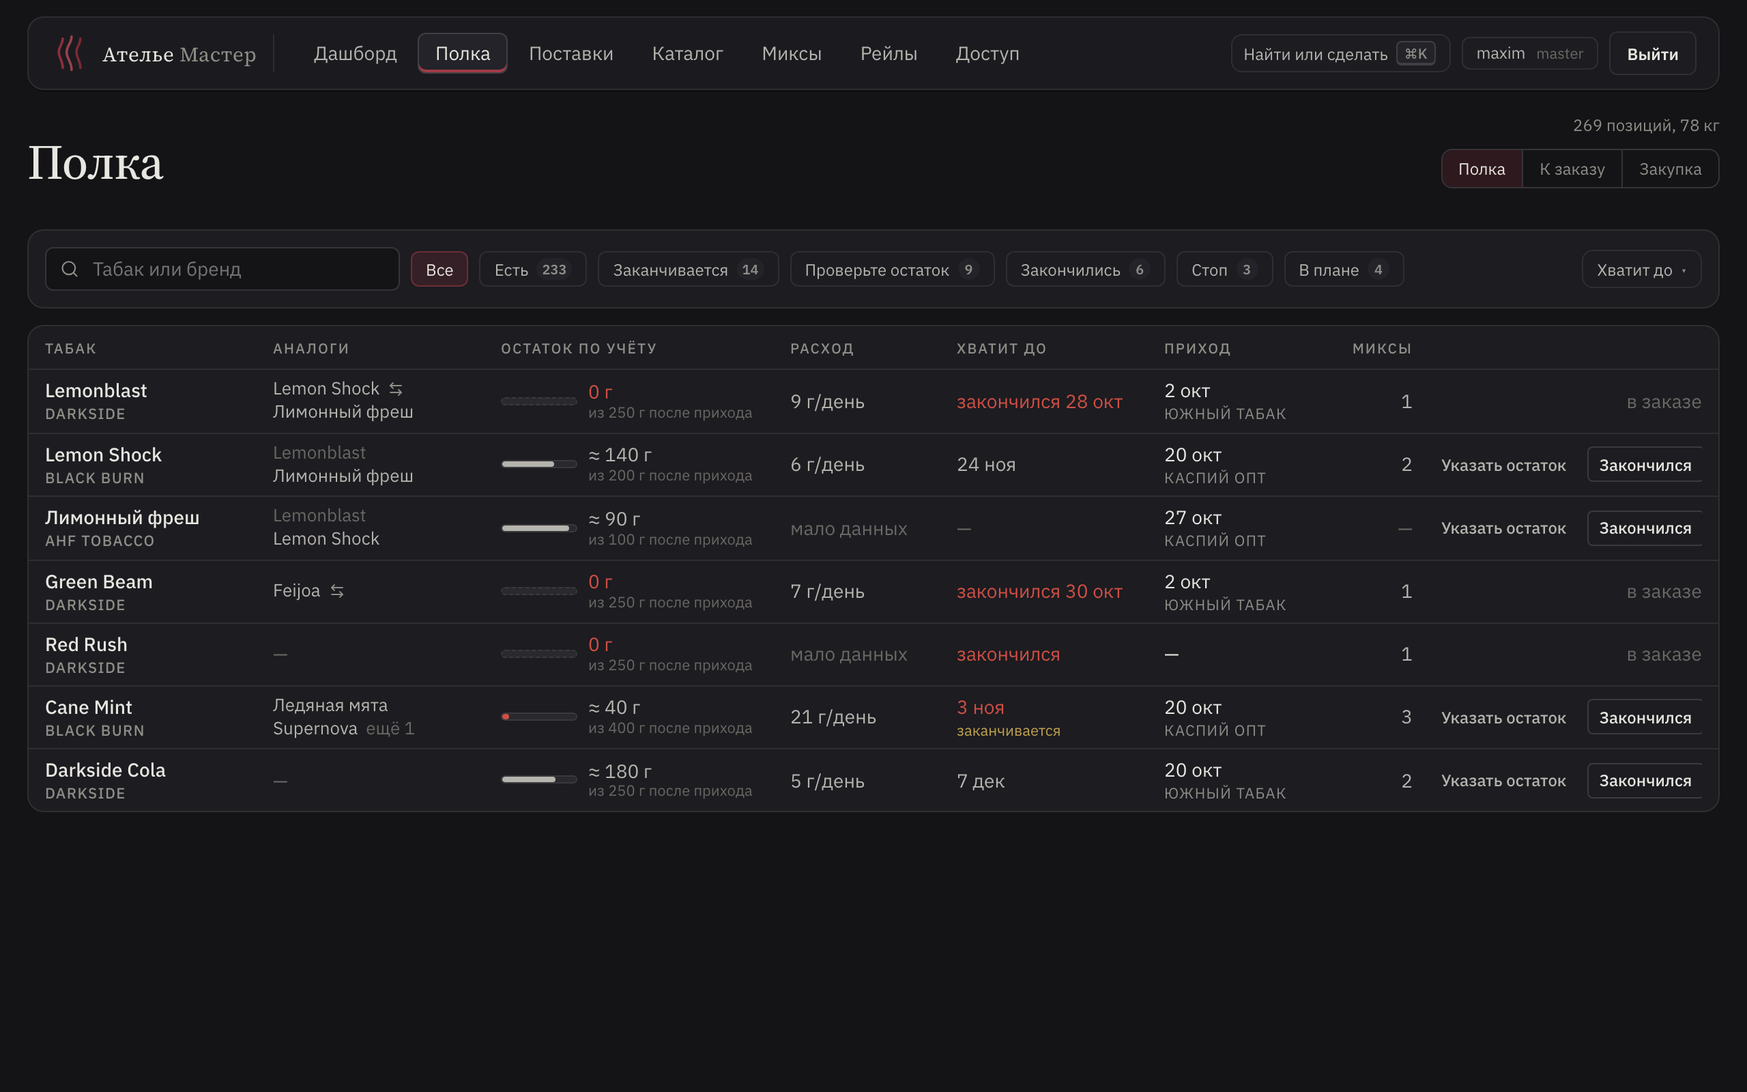
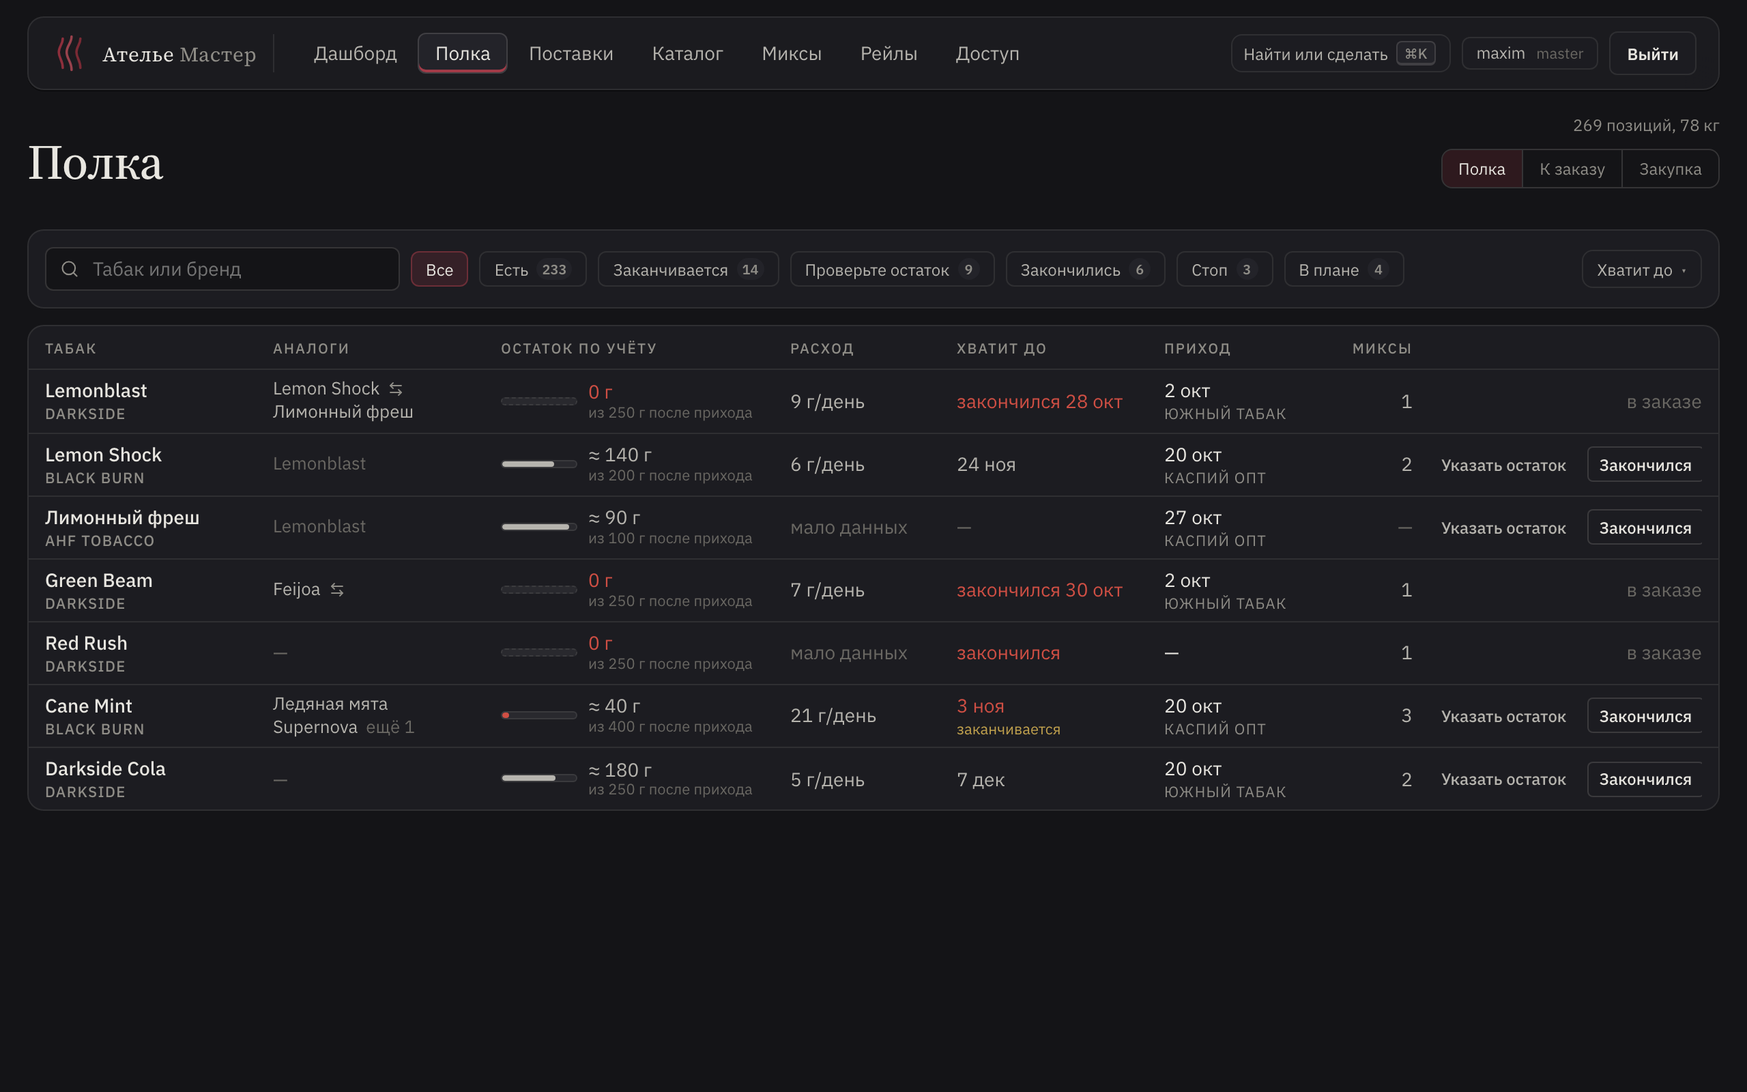
docs(prd): аналоги — свой список у каждого табака вместо групп (#475) (#484)
Владелец 2026-11-01: в общем случае табаки взаимозаменяемы, и один табак
может подменять несколько разных. Группы с запретом на второе членство
этого не позволяли. Связь взаимная, порядок замены у каждого табака свой,
транзитивности нет.

diff --git a/design/design_handoff_tobacco_analogs/board.jsx b/design/design_handoff_tobacco_analogs/board.jsx
@@ -1,6 +1,6 @@
 // Доска мокапа #475: аналоги табаков — микс не блокируется, если недостающий табак закрывает аналог с полки.
 // Миксы — из сверки миксов мастера Nomad с полкой прода (2026-10-31). Состояние полки — как после того,
-// как мастер собрал первые группы аналогов.
+// как мастер задал первые аналоги.
 const DS = window.DesignSystem_1aef33;
 const { AromaCTA, AromaChip, SegmentNav, ProfileGlyph, SignatureBar, MasterTopBar, MasterPageHeader, MasterButton, MasterIconButton, MasterTag, MasterInput, MasterList, MasterSortPill, FilterChip } = DS;
 
@@ -92,7 +92,7 @@ const anMix = (id) => AN_MIXES.find((mix) => mix.id === id);
 // Что гость видит в составе: табак с полки вместо закончившегося.
 const asServed = (mix) => mix.components.map((c) => (c.sub ? { ...c.sub, proportion: c.proportion, substitute: true } : c));
 
-// Карточки полки: группа аналогов в порядке замены и похожие табаки с полки по flavors.
+// Карточки полки: аналоги в порядке замены и похожие табаки с полки по flavors.
 const AN_SHELF = {
   lemonblast: {
     manufacturer: 'Darkside', name: 'Lemonblast', profiles: ['citrus'], left: '0 г', leftNote: 'закончился 28 окт', rate: '9 г/день', rateNote: 'по 4 отметкам за 60 дней',
@@ -219,14 +219,14 @@ function MixesPage({ onMissing }) {
 
 // ── Мастер: экран «Полка» с колонкой «Аналоги» ──
 
-// Аналоги в строке — остальные табаки группы в порядке замены. sub — тот, что сейчас стоит в миксах вместо закончившегося.
+// Аналоги в строке — список этого табака в его порядке замены. sub — тот, что сейчас стоит в миксах вместо закончившегося.
 const AN_SHELF_ROWS = [
   { id: 'lemonblast', manufacturer: 'Darkside', name: 'Lemonblast', left: 0, full: 250, rate: '9 г/день', until: 'закончился 28 окт', status: 'out', arrived: '2 окт', supplier: 'Южный табак', mixes: 1,
     analogs: [{ name: 'Lemon Shock', on: true, sub: true }, { name: 'Лимонный фреш', on: true }] },
   { id: 'lemonshock', manufacturer: 'Black Burn', name: 'Lemon Shock', left: 140, full: 200, rate: '6 г/день', until: '24 ноя', days: 23, status: 'ok', arrived: '20 окт', supplier: 'Каспий Опт', mixes: 2,
-    analogs: [{ name: 'Lemonblast', on: false }, { name: 'Лимонный фреш', on: true }] },
+    analogs: [{ name: 'Lemonblast', on: false }] },
   { id: 'lemonfresh', manufacturer: 'AHF Tobacco', name: 'Лимонный фреш', left: 90, full: 100, rate: 'мало данных', until: '—', status: 'ok', arrived: '27 окт', supplier: 'Каспий Опт', mixes: 0,
-    analogs: [{ name: 'Lemonblast', on: false }, { name: 'Lemon Shock', on: true }] },
+    analogs: [{ name: 'Lemonblast', on: false }] },
   { id: 'greenbeam', manufacturer: 'Darkside', name: 'Green Beam', left: 0, full: 250, rate: '7 г/день', until: 'закончился 30 окт', status: 'out', arrived: '2 окт', supplier: 'Южный табак', mixes: 1,
     analogs: [{ name: 'Feijoa', on: true, sub: true }] },
   { id: 'redrush', manufacturer: 'Darkside', name: 'Red Rush', left: 0, full: 250, rate: 'мало данных', until: 'закончился', status: 'out', arrived: '—', supplier: '', mixes: 1, analogs: [] },
@@ -260,7 +260,7 @@ function ShelfUntil({ row }) {
   );
 }
 
-// Две первые строки группы, остальное — «ещё N». Закончившиеся приглушены, стоящий сейчас в миксах — с иконкой замены.
+// Два первых аналога, остальное — «ещё N». Закончившиеся приглушены, стоящий сейчас в миксах — с иконкой замены.
 function ShelfAnalogs({ row }) {
   if (!row.analogs.length) return <span className="inv-faint">—</span>;
   const head = row.analogs.slice(0, 2);
@@ -596,7 +596,7 @@ function GuestPhone({ view, sheet }) {
 
 const AN_SHOTS = [
   { id: 'mixes', group: 'master', name: 'Миксы', note: 'Новый статус «с заменой»: какой табак стоит вместо какого. У блокированного названо, чего нет, имя табака открывает его карточку. «Ежевичный тархун» блокирован: нет двух табаков, а замена допускается одна.', desk: {} },
-  { id: 'shelf', group: 'master', name: 'Полка', note: 'Новая колонка «Аналоги»: остальные табаки группы в порядке замены. Закончившиеся приглушены. У закончившегося табака иконкой отмечен тот, что сейчас стоит вместо него в миксах. Если аналогов нет, в ячейке прочерк.', desk: { page: 'shelf' } },
+  { id: 'shelf', group: 'master', name: 'Полка', note: 'Новая колонка «Аналоги»: аналоги табака в его порядке замены. Связь взаимная: Lemon Shock аналог Lemonblast, значит, и Lemonblast аналог Lemon Shock. Закончившиеся приглушены. У закончившегося табака иконкой отмечен тот, что сейчас стоит вместо него в миксах. Если аналогов нет, в ячейке прочерк.', desk: { page: 'shelf' } },
   { id: 'shelf-analogs', group: 'master', name: 'Карточка табака: аналоги заданы', note: 'Lemonblast закончился. Порядок в списке и есть порядок замены, стрелками меняется. Ниже похожие табаки с полки и миксы, где табак сейчас подменён.', desk: { card: 'lemonblast', page: 'shelf' } },
   { id: 'shelf-suggest', group: 'master', name: 'Карточка табака: аналогов нет', note: 'Открыта из «Миксов» по ссылке «Нет: Red Rush». Похожие на полке подобраны по flavors, «Сделать аналогом» в одно действие делает микс видимым с заменой.', desk: { card: 'redrush' } },
   { id: 'sheet-sub', group: 'guest', name: 'Карточка микса с заменой', note: 'Гость видит табак, который стоит на полке. После названия иконка замены. Остальное как у любого микса: оценка, «Покурить».', phone: { view: 'catalog', sheet: { mix: 'rootbeer' } } },

diff --git a/design/design_handoff_tobacco_analogs/README.md b/design/design_handoff_tobacco_analogs/README.md
@@ -37,12 +37,12 @@ python3 -m http.server 8765 --bind 127.0.0.1
 
 ### Мастер, «Полка»
 
-- Новая колонка «Аналоги» сразу после «Табак». В ней остальные табаки группы в порядке замены, каждый на своей строке.
+- Новая колонка «Аналоги» сразу после «Табак». В ней аналоги этого табака в его порядке замены, каждый на своей строке.
   - Видны два первых, дальше приглушённое «ещё N». Полный список в подсказке при наведении.
   - Закончившиеся аналоги приглушены (`--text-faint`).
   - У закончившегося табака тот аналог, который сейчас стоит вместо него в миксах, отмечен иконкой `ArrowLeftRight`, как у гостя.
   - Если аналогов нет, в ячейке прочерк.
-- Группа одна на всех, поэтому у Lemon Shock в аналогах Lemonblast и Лимонный фреш, а у Lemonblast — Lemon Shock и Лимонный фреш.
+- Связь взаимная, но не транзитивная. У Lemonblast аналоги Lemon Shock и Лимонный фреш, поэтому у каждого из них в аналогах Lemonblast. Друг другу Lemon Shock и Лимонный фреш аналогами не становятся.
 
 ### Мастер, карточка табака (шторка полки)
 
@@ -55,7 +55,7 @@ python3 -m http.server 8765 --bind 127.0.0.1
 - **Похожие на полке.** 2–5 табаков с полки с наибольшим пересечением `flavors` и `flavorProfiles`. Только табаки, которые сейчас есть и ещё не входят в аналоги. Справа их вкусы и кнопка «Сделать аналогом».
   - Без аналогов и без похожих секция не показывается.
 - **В миксах.** Миксы с этим табаком и их статус. У микса с заменой ниже видно, что чем заменено.
-- **Аналогия симметрична.** Добавили Lemon Shock к Lemonblast — значит, и Lemonblast стал аналогом Lemon Shock. Это одна группа, и в карточке любого табака группы видны остальные.
+- **Связь взаимная.** Добавили Lemon Shock к Lemonblast, и Lemonblast встаёт в конец списка аналогов Lemon Shock. Убрали аналог, и связь пропадает с обеих сторон. Порядок у каждого табака свой. Один табак может быть аналогом у скольких угодно табаков, аналог аналога сам аналогом не становится.
 - **Тост после «Сделать аналогом».** Первая строка — **Barberry** жирным, вторая — «Аналог Red Rush. «Виноградный космос» виден гостю с заменой.» Если микс так и остался блокированным, вторая строка — только «Аналог Red Rush.» Отмена — как у прочих действий полки.
 
 ### Гость
@@ -72,7 +72,7 @@ python3 -m http.server 8765 --bind 127.0.0.1
 
 ## Решено
 
-- **У группы нет имени.** Группа — это список аналогов в карточке табака, без отдельного поля и действия.
+- **Групп нет.** У каждого табака свой список аналогов со своим порядком, связь взаимная (PRD §5.2, §9.3 п.6). Группы с запретом на второе членство владелец отклонил 2026-11-01: в общем случае табаки взаимозаменяемы, и один табак может подменять несколько разных.
 - **«С заменой» — отдельный статус** в «Миксах», не часть «Виден гостю»: мастер одним нажатием видит все подмены.
 - **Пометка у гостя — только иконка.** Подпись «замена» владелец отклонил. Что именно заменено, гостю не показываем: название исходного табака ему ничего не скажет.
-- **Замена задаётся только у табака.** Группа действует во всех миксах с этим табаком, порядок замены общий. Переключателя «Без замен» у микса нет: владелец отказался.
+- **Замена задаётся только у табака.** Список аналогов действует во всех миксах с этим табаком, порядок замены у табака один. Переключателя «Без замен» у микса нет: владелец отказался.

diff --git a/CLAUDE.md b/CLAUDE.md
@@ -224,8 +224,8 @@ Production-ветка репозитория — `main`. Соглашение п
 2. `Покурить` — аналитическое событие выбора микса, а не пользовательская сессия;
    история в кабинете — журнал этих событий, smoking sessions не возвращаются.
 3. Рекомендации зависят от онбординга и наличия табаков в инвентаре. Один
-   недостающий компонент микса может закрыть аналог с полки из группы, которую
-   ведёт мастер (`PRD.md` §6.2); сама система аналог не назначает.
+   недостающий компонент микса может закрыть аналог с полки, которого задал
+   мастер (`PRD.md` §6.2); сама система аналог не назначает.
 4. Таксономия каталога табака: `flavorProfiles` (категории), `flavors` (вкусы),
    `flavorTags` (только мета-теги) — три разных поля, не смешивать.
 

diff --git a/.claude/skills/atelier-product-guardrails/SKILL.md b/.claude/skills/atelier-product-guardrails/SKILL.md
@@ -23,7 +23,7 @@ description: Проверка задачи Арома Ателье на соот
    «Для вас»; без телефона, рассылок, smoking sessions; одна точка; мастер его не видит.
 3. `Покурить` — аналитическое событие выбора микса, а не пользовательская сессия.
 4. Рекомендации зависят от выбора в онбординге и наличия табаков в инвентаре;
-   один недостающий компонент может закрыть аналог с полки из группы мастера
+   один недостающий компонент может закрыть аналог с полки, заданный мастером
    (`PRD.md` §6.2).
 5. Таксономия табака: `flavorProfiles` (категории), `flavors` (вкусы), `flavorTags`
    (мета-теги) — три разных поля.
